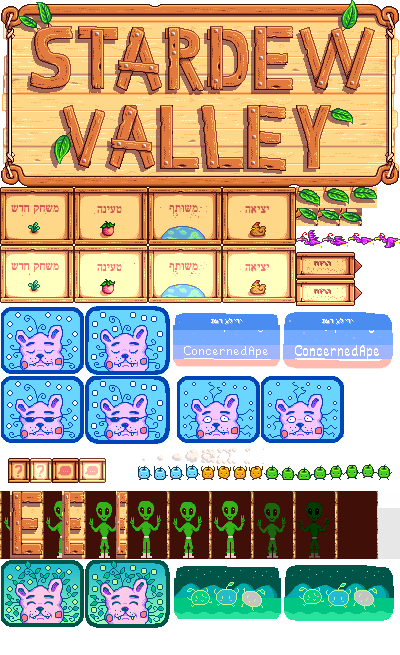
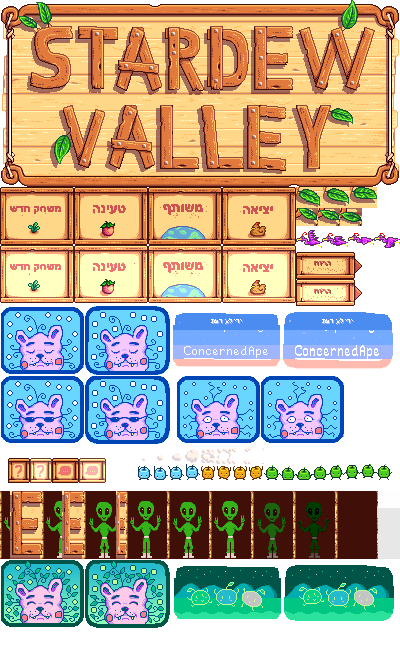
Restore crisp pixel title labels

diff --git a/Tests/StardewTranslationInstallerTests/InstallerCoreTests.swift b/Tests/StardewTranslationInstallerTests/InstallerCoreTests.swift
@@ -351,25 +351,25 @@ struct InstallerCoreTests {
         )
 
         let unifiedTitleButtonHashes = [
[38 lines of base64/hex data omitted]
         ]
         for (titlePath, expectedHash) in unifiedTitleButtonHashes {
             try expect(try pngDimensions(titlePath) == (400, 655))
@@ -389,7 +389,7 @@ struct InstallerCoreTests {
         try expect(try pngDimensions(vietnameseTitlePath) == (400, 655))
         try expect(
             try DependencyInstaller.sha256(of: payload.appendingPathComponent(vietnameseTitlePath))
[2 lines of base64/hex data omitted]
         )
 
         let hindiButtonPath = "assets/button-hindi.png"
@@ -402,7 +402,7 @@ struct InstallerCoreTests {
         try expect(try pngDimensions(hindiTitlePath) == (400, 655))
         try expect(
             try DependencyInstaller.sha256(of: payload.appendingPathComponent(hindiTitlePath))
[2 lines of base64/hex data omitted]
         )
 
         let swahiliButtonPath = "assets/button-swahili.png"
@@ -415,7 +415,7 @@ struct InstallerCoreTests {
         try expect(try pngDimensions(swahiliTitlePath) == (400, 655))
         try expect(
             try DependencyInstaller.sha256(of: payload.appendingPathComponent(swahiliTitlePath))
[2 lines of base64/hex data omitted]
         )
 
         let indonesianButtonPath = "assets/button-indonesian.png"
@@ -428,7 +428,7 @@ struct InstallerCoreTests {
         try expect(try pngDimensions(indonesianTitlePath) == (400, 655))
         try expect(
             try DependencyInstaller.sha256(of: payload.appendingPathComponent(indonesianTitlePath))
[2 lines of base64/hex data omitted]
         )
 
 
@@ -442,7 +442,7 @@ struct InstallerCoreTests {
         try expect(try pngDimensions(filipinoTitlePath) == (400, 655))
         try expect(
             try DependencyInstaller.sha256(of: payload.appendingPathComponent(filipinoTitlePath))
[2 lines of base64/hex data omitted]
         )
 
         let filipinoFontHashes = [
@@ -466,7 +466,7 @@ struct InstallerCoreTests {
         try expect(try pngDimensions(romanianTitlePath) == (400, 655))
         try expect(
             try DependencyInstaller.sha256(of: payload.appendingPathComponent(romanianTitlePath))
[2 lines of base64/hex data omitted]
         )
 
         try expect(try pngDimensions("assets/button-persian.png") == (174, 78))
@@ -479,7 +479,7 @@ struct InstallerCoreTests {
         try expect(
             try DependencyInstaller.sha256(
                 of: payload.appendingPathComponent("assets/title/TitleButtons-persian.png")
[2 lines of base64/hex data omitted]
         )
 
         try expect(try pngDimensions("assets/button-arabic.png") == (174, 78))
@@ -492,12 +492,12 @@ struct InstallerCoreTests {
         try expect(
             try DependencyInstaller.sha256(
                 of: payload.appendingPathComponent("assets/title/TitleButtons-arabic.png")
[2 lines of base64/hex data omitted]
         )
 
         let bulgarianAssetHashes = [
[5 lines of base64/hex data omitted]
         ]
@@ -520,7 +520,7 @@ struct InstallerCoreTests {
         try expect(
             try DependencyInstaller.sha256(
                 of: payload.appendingPathComponent("assets/title/TitleButtons-thai.png")
[2 lines of base64/hex data omitted]
         )
 
         let greekFontHashes = [
@@ -543,12 +543,12 @@ struct InstallerCoreTests {
         try expect(
             try DependencyInstaller.sha256(
                 of: payload.appendingPathComponent("assets/title/TitleButtons-greek.png")
[2 lines of base64/hex data omitted]
         )
 
         let czechAssetHashes = [
[5 lines of base64/hex data omitted]
         ]

diff --git a/Scripts/render-shaped-text.swift b/Scripts/render-shaped-text.swift
@@ -48,7 +48,7 @@ do {
     let alphaThreshold = CommandLine.arguments.count == 7
         ? Int(CommandLine.arguments[6])
         : 96
-    guard let alphaThreshold, (-1...255).contains(alphaThreshold) else { throw RenderError.usage }
+    guard let alphaThreshold, (0...255).contains(alphaThreshold) else { throw RenderError.usage }
     guard
           let fontName = CTFontDescriptorCopyAttribute(descriptor, kCTFontNameAttribute) as? String,
           let font = NSFont(name: fontName, size: size) else { throw RenderError.font }
@@ -87,17 +87,11 @@ do {
     for y in 0..<result.pixelsHigh {
         for x in 0..<result.pixelsWide {
             let offset = y * result.bytesPerRow + x * bytesPerPixel
-            if alphaThreshold == -1 {
-                pixels[offset] = 255
-                pixels[offset + 1] = 255
-                pixels[offset + 2] = 255
-            } else {
-                let opaque = Int(pixels[offset + 3]) >= alphaThreshold
-                pixels[offset] = opaque ? 255 : 0
-                pixels[offset + 1] = opaque ? 255 : 0
-                pixels[offset + 2] = opaque ? 255 : 0
-                pixels[offset + 3] = opaque ? 255 : 0
-            }
+            let opaque = Int(pixels[offset + 3]) >= alphaThreshold
+            pixels[offset] = opaque ? 255 : 0
+            pixels[offset + 1] = opaque ? 255 : 0
+            pixels[offset + 2] = opaque ? 255 : 0
+            pixels[offset + 3] = opaque ? 255 : 0
         }
     }
     guard let data = result.representation(using: .png, properties: [:]) else {
@@ -105,6 +99,6 @@ do {
     }
     try data.write(to: outputURL)
 } catch {
-    fputs("Usage: render-shaped-text <font-file> <text> <size> <output.png> [font-index] [alpha-threshold|-1 for antialiasing]\n", stderr)
+    fputs("Usage: render-shaped-text <font-file> <text> <size> <output.png> [font-index] [alpha-threshold]\n", stderr)
     exit(1)
 }

diff --git a/Scripts/generate-title-buttons.py b/Scripts/generate-title-buttons.py
@@ -20,14 +20,14 @@ class TitleButtons:
     font_index: int = 0
     shaped: bool = False
     max_size: int = 13
-    threshold: int = -1
+    threshold: int = 96
 
 
 ARIAL_BOLD = "/System/Library/Fonts/Supplemental/Arial Bold.ttf"
 GEEZA = "/System/Library/Fonts/GeezaPro.ttc"
-DEVANAGARI = "/System/Library/Fonts/Supplemental/Devanagari Sangam MN.ttc"
 SONGTI = "/System/Library/Fonts/Supplemental/Songti.ttc"
-NEW_PENINIM = "/System/Library/Fonts/Supplemental/NewPeninimMT.ttc"
+ARIAL_HEBREW = "/System/Library/Fonts/ArialHB.ttc"
+KOHINOOR = "/System/Library/Fonts/Kohinoor.ttc"
 THONBURI = "/System/Library/Fonts/Supplemental/Thonburi.ttc"
 
 BUTTONS = (
@@ -37,17 +37,17 @@ BUTTONS = (
     TitleButtons("TitleButtons-ukrainian.png", (("НОВА", "ГРА"), ("ЗАВАН-", "ТАЖИТИ"), ("СПІЛЬНА", "ГРА"), ("ВИЙТИ", "З ГРИ")), ARIAL_BOLD),
     TitleButtons("TitleButtons-vietnamese.png", (("CHƠI MỚI",), ("TẢI", "TRÒ CHƠI"), ("CHƠI", "CHUNG"), ("THOÁT",)), ARIAL_BOLD),
     TitleButtons("TitleButtons-swahili.png", (("MCHEZO", "MPYA"), ("PAKIA",), ("PAMOJA",), ("TOKA",)), ARIAL_BOLD),
-    TitleButtons("TitleButtons-persian.png", (("بازی", "جدید"), ("بارگیری",), ("چندنفره",), ("خروج",)), GEEZA, shaped=True, max_size=14),
-    TitleButtons("TitleButtons-arabic.png", (("لعبة", "جديدة"), ("تحميل",), ("تعاوني",), ("خروج",)), GEEZA, shaped=True, max_size=14),
+    TitleButtons("TitleButtons-persian.png", (("بازی", "جدید"), ("بارگیری",), ("چندنفره",), ("خروج",)), GEEZA, font_index=1, shaped=True, max_size=14, threshold=128),
+    TitleButtons("TitleButtons-arabic.png", (("لعبة", "جديدة"), ("تحميل",), ("تعاوني",), ("خروج",)), GEEZA, font_index=1, shaped=True, max_size=14, threshold=128),
     TitleButtons("TitleButtons-indonesian.png", (("PERMAINAN", "BARU"), ("MUAT",), ("MAIN", "BERSAMA"), ("KELUAR",)), ARIAL_BOLD),
     TitleButtons("TitleButtons-filipino.png", (("BAGONG", "LARO"), ("I-LOAD",), ("CO-OP",), ("LUMABAS",)), ARIAL_BOLD),
     TitleButtons("TitleButtons-dutch.png", (("NIEUW", "SPEL"), ("LADEN",), ("COÖP",), ("AFSLUITEN",)), ARIAL_BOLD),
-    TitleButtons("TitleButtons-hindi.png", (("नया", "खेल"), ("लोड",), ("सहकारी",), ("बाहर", "निकलें")), DEVANAGARI, shaped=True, max_size=14),
+    TitleButtons("TitleButtons-hindi.png", (("नया", "खेल"), ("लोड",), ("सहकारी",), ("बाहर", "निकलें")), KOHINOOR, font_index=1, shaped=True, max_size=14, threshold=112),
     TitleButtons("TitleButtons-traditional-chinese.png", (("新遊戲",), ("載入",), ("合作",), ("離開",)), SONGTI, font_index=2, max_size=14),
     TitleButtons("TitleButtons-romanian.png", (("JOC", "NOU"), ("ÎNCARCĂ",), ("CO-OP",), ("IEȘIRE",)), ARIAL_BOLD),
-    TitleButtons("TitleButtons-hebrew.png", (("משחק חדש",), ("טעינה",), ("משותף",), ("יציאה",)), NEW_PENINIM, shaped=True, max_size=14),
+    TitleButtons("TitleButtons-hebrew.png", (("משחק חדש",), ("טעינה",), ("משותף",), ("יציאה",)), ARIAL_HEBREW, font_index=1, shaped=True, max_size=14, threshold=112),
     TitleButtons("TitleButtons-bulgarian.png", (("НОВА", "ИГРА"), ("ЗАРЕДИ",), ("ЗАЕДНО",), ("ИЗХОД",)), ARIAL_BOLD),
-    TitleButtons("TitleButtons-thai.png", (("เกมใหม่",), ("โหลด",), ("ร่วมกัน",), ("ออก",)), THONBURI, shaped=True, max_size=14),
+    TitleButtons("TitleButtons-thai.png", (("เกมใหม่",), ("โหลด",), ("ร่วมกัน",), ("ออก",)), THONBURI, font_index=1, shaped=True, max_size=14, threshold=112),
     TitleButtons("TitleButtons-greek.png", (("ΝΕΟ", "ΠΑΙΧΝΙΔΙ"), ("ΦΟΡΤΩΣΗ",), ("ΜΑΖΙ",), ("ΕΞΟΔΟΣ",)), ARIAL_BOLD),
     TitleButtons("TitleButtons-czech.png", (("NOVÁ HRA",), ("NAČÍST",), ("KO-OP",), ("UKONČIT",)), ARIAL_BOLD),
 )
@@ -73,8 +73,6 @@ def render_pillow(text: str, font_path: Path, size: int, index: int, threshold: 
     bounds = ImageDraw.Draw(probe).textbbox((0, 0), text, font=font)
     mask = Image.new("L", (bounds[2] - bounds[0], bounds[3] - bounds[1]), 0)
     ImageDraw.Draw(mask).text((-bounds[0], -bounds[1]), text, font=font, fill=255)
-    if threshold == -1:
-        return mask
     return mask.point(lambda value: 255 if value >= threshold else 0)
 
 
@@ -136,6 +134,8 @@ def validate_atlas(
         raise ValueError(f"Invalid atlas dimensions for {spec.filename}: {atlas.size}")
     strip = atlas.crop((0, 184, 296, 300))
     for index, (box, mask) in enumerate(zip(LABEL_BOXES, masks)):
+        if any(value not in (0, 255) for value in mask.getdata()):
+            raise ValueError(f"Antialiased pixels in label {index} of {spec.filename}")
         bounds = mask.getbbox()
         if bounds is None or sum(1 for value in mask.getdata() if value >= 64) < 12:
             raise ValueError(f"Unreadable or missing label {index} in {spec.filename}")
@@ -156,6 +156,26 @@ def validate_atlas(
         for x in range(STRIP_SIZE[0]):
             if (x, y) not in allowed and strip.getpixel((x, y)) != template.getpixel((x, y)):
                 raise ValueError(f"Frame art changed in {spec.filename} at {x},{y}")
+    for state, color in enumerate(INK_COLORS):
+        offset_y = state * STATE_OFFSET
+        changed = []
+        for left, top, right, bottom in LABEL_BOXES:
+            points = set()
+            for y in range(top + offset_y, bottom + offset_y):
+                for x in range(left, right):
+                    pixel = strip.getpixel((x, y))
+                    original = template.getpixel((x, y))
+                    if pixel != original:
+                        if pixel != color:
+                            raise ValueError(
+                                f"Non-pixel text color in {spec.filename} at {x},{y}"
+                            )
+                        points.add((x, y - offset_y))
+            changed.append(points)
+        if state == 0:
+            normal_geometry = changed
+        elif changed != normal_geometry:
+            raise ValueError(f"Normal/hover geometry differs in {spec.filename}")
 
 
 def write_preview(atlases: list[Image.Image], output: Path) -> None:
